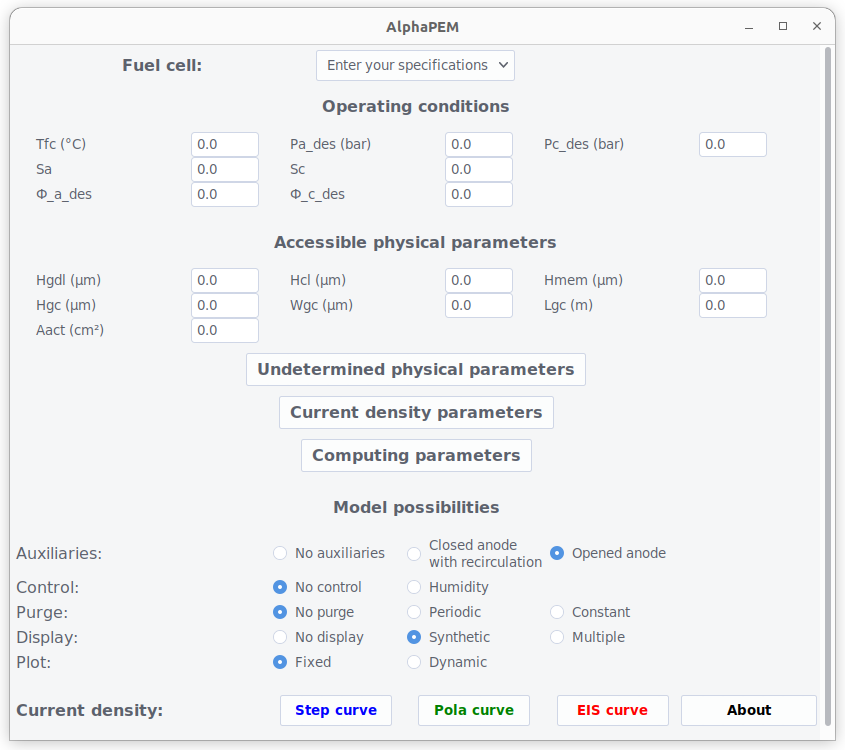
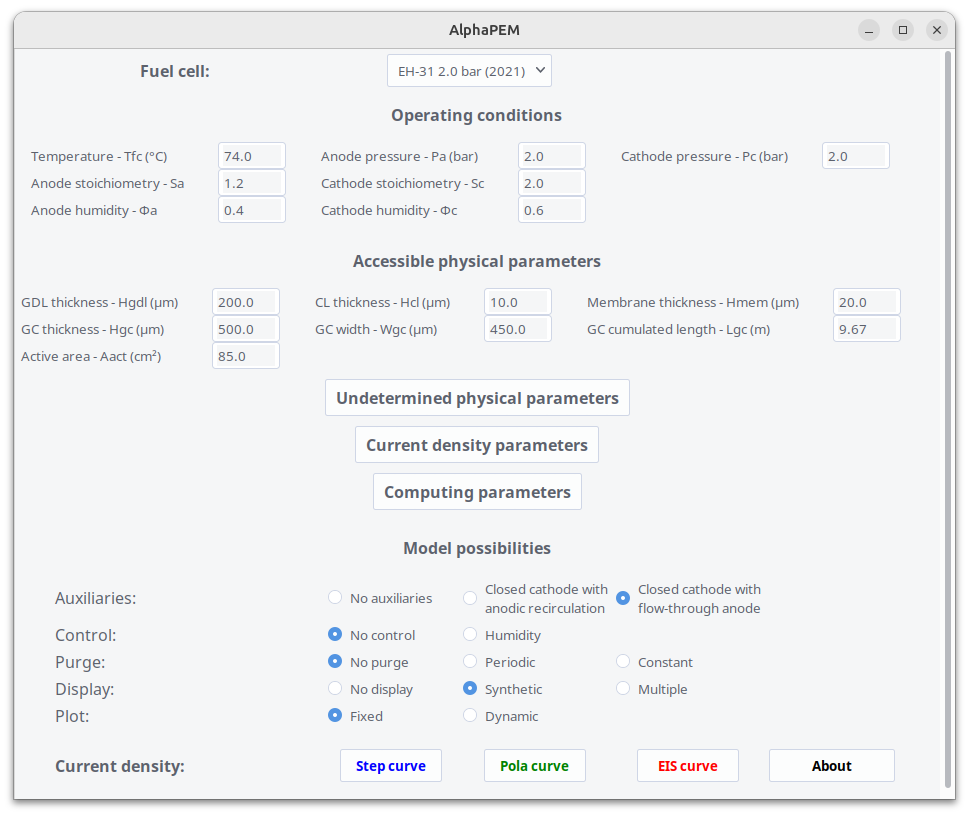
The GUI geometry is now adjusted automatically.

diff --git a/modules/GUI_modules.py b/modules/GUI_modules.py
@@ -353,18 +353,18 @@ def recover_for_display_operating_inputs_and_physical_parameters(choice_operatin
     choice_accessible_parameters['GC cumulated length - Lgc (m)']['value'].set(np.round(Lgc, 2))  # µm
     # undetermined physical parameters recovery
     choice_undetermined_parameters['GDL porosity - ε_gdl']['value'].set(np.round(epsilon_gdl, 3))
-    choice_undetermined_parameters['Ionomer volume fraction - ε_mc']['value'].set(np.round(epsilon_mc, 3))
+    choice_undetermined_parameters['Ionomer volume fraction\n- ε_mc']['value'].set(np.round(epsilon_mc, 3))
     choice_undetermined_parameters['Tortuosity - τ']['value'].set(np.round(tau, 3))
     choice_undetermined_parameters['Compression ratio - ε_c']['value'].set(np.round(epsilon_c, 3))
     choice_undetermined_parameters['Capillary exponent - e']['value'].set(e)
-    choice_undetermined_parameters['Electron resistance - Re (µΩ.m²)']['value'].set(np.round(Re * 1e6, 2))  # µΩ.m²
+    choice_undetermined_parameters['Electron resistance\n- Re (µΩ.m²)']['value'].set(np.round(Re * 1e6, 2))  # µΩ.m²
     choice_undetermined_parameters['Reference exchange current\ndensity - i0_c_ref (A/m²)']['value'].set(np.round(i0_c_ref, 2))  # A.m-2
-    choice_undetermined_parameters['Crossover correction coefficient\n- κ_co (mol/(m.s.Pa))']['value'].set(np.round(kappa_co, 2))  # mol.m-1.s-1.Pa-1
+    choice_undetermined_parameters['Crossover correction\ncoefficient\n- κ_co (mol/(m.s.Pa))']['value'].set(np.round(kappa_co, 2))  # mol.m-1.s-1.Pa-1
     choice_undetermined_parameters['Overpotential correction\nexponent - κ_c']['value'].set(np.round(kappa_c, 2))
     choice_undetermined_parameters['Limit liquid saturation\ncoefficient - a_slim']['value'].set(np.round(a_slim, 7))
     choice_undetermined_parameters['Limit liquid saturation\ncoefficient - b_slim']['value'].set(np.round(b_slim, 7))
     choice_undetermined_parameters['Limit liquid saturation\ncoefficient - a_switch']['value'].set(np.round(a_switch, 7))
-    choice_undetermined_parameters['Volumetric space-charge layer\ncapacitance - C_scl (F/cm³)']['value'].set(np.round(C_scl * 1e-6, 2))  # F.cm-3
+    choice_undetermined_parameters['Volumetric space-charge\nlayer capacitance\n- C_scl (F/cm³)']['value'].set(np.round(C_scl * 1e-6, 2))  # F.cm-3
     # i_max_pola recovery
     choice_current_density_parameters['Maximum current density\n- i_max_pola (A/cm²)']['value'].set(np.round(i_max_pola / 1e4, 2))  # A/cm²
 
@@ -409,34 +409,34 @@ def recover_for_use_operating_inputs_and_physical_parameters(choice_operating_co
     Lgc = choice_accessible_parameters['GC cumulated length - Lgc (m)']['value'].get()  # m
     # undetermined physical parameters
     epsilon_gdl = choice_undetermined_parameters['GDL porosity - ε_gdl']['value'].get()
-    epsilon_mc = choice_undetermined_parameters['Ionomer volume fraction - ε_mc']['value'].get()
+    epsilon_mc = choice_undetermined_parameters['Ionomer volume fraction\n- ε_mc']['value'].get()
     tau = choice_undetermined_parameters['Tortuosity - τ']['value'].get()
     epsilon_c = choice_undetermined_parameters['Compression ratio - ε_c']['value'].get()
     e = choice_undetermined_parameters['Capillary exponent - e']['value'].get()
-    Re = choice_undetermined_parameters['Electron resistance - Re (µΩ.m²)']['value'].get() * 1e-6  # ohm.m²
+    Re = choice_undetermined_parameters['Electron resistance\n- Re (µΩ.m²)']['value'].get() * 1e-6  # ohm.m²
     i0_c_ref = choice_undetermined_parameters['Reference exchange current\ndensity - i0_c_ref (A/m²)']['value'].get()  # A.m-2
-    kappa_co = choice_undetermined_parameters['Crossover correction coefficient\n- κ_co (mol/(m.s.Pa))']['value'].get()  # mol.m-1.s-1.Pa-1
+    kappa_co = choice_undetermined_parameters['Crossover correction\ncoefficient\n- κ_co (mol/(m.s.Pa))']['value'].get()  # mol.m-1.s-1.Pa-1
     kappa_c = choice_undetermined_parameters['Overpotential correction\nexponent - κ_c']['value'].get()
     a_slim = choice_undetermined_parameters['Limit liquid saturation\ncoefficient - a_slim']['value'].get()
     b_slim = choice_undetermined_parameters['Limit liquid saturation\ncoefficient - b_slim']['value'].get()
     a_switch = choice_undetermined_parameters['Limit liquid saturation\ncoefficient - a_switch']['value'].get()
-    C_scl = choice_undetermined_parameters['Volumetric space-charge layer\ncapacitance - C_scl (F/cm³)']['value'].get() * 1e6  # F.m-3
+    C_scl = choice_undetermined_parameters['Volumetric space-charge\nlayer capacitance\n- C_scl (F/cm³)']['value'].get() * 1e6  # F.m-3
     # current density parameters
     t_step = (choice_current_density_parameters['Initial time - t0_step (s)']['value'].get(),
               choice_current_density_parameters['Final time - tf_step (s)']['value'].get(),
-              choice_current_density_parameters['Loading time - Δt_load_step (s)']['value'].get(),
+              choice_current_density_parameters['Loading time\n- Δt_load_step (s)']['value'].get(),
               choice_computing_parameters['Time for dynamic\ndisplay - Δt_dyn_step (s)']['value'].get())  # (s, s, s, s)
     i_step = (choice_current_density_parameters['Initial current density\n- i_ini_step (A/cm²)']['value'].get() * 1e4,
               choice_current_density_parameters['Final current density\n- i_final_step (A/cm²)']['value'].get() * 1e4)  # (A.m-2, A.m-2)
     i_max_pola = choice_current_density_parameters['Maximum current density\n- i_max_pola (A/cm²)']['value'].get() * 1e4  # A.m-2
-    delta_pola = (choice_current_density_parameters['Loading time - Δt_load_pola (s)']['value'].get(),
-                  choice_current_density_parameters['Breaking time - Δt_break_pola (s)']['value'].get(),
+    delta_pola = (choice_current_density_parameters['Loading time\n- Δt_load_pola (s)']['value'].get(),
+                  choice_current_density_parameters['Breaking time\n- Δt_break_pola (s)']['value'].get(),
                   choice_current_density_parameters['Current density step\n- Δi_pola (A/cm²)']['value'].get() * 1e4,
                   choice_current_density_parameters['Initial breaking time\n- Δt_ini_pola (s)']['value'].get())  # (s, s, A.m-2, s)
-    i_EIS = choice_current_density_parameters['Static current - i_EIS (A/cm²)']['value'].get() * 1e4  # (A.m-2)
-    ratio_EIS = choice_current_density_parameters['Current ratio - ratio_EIS (%)']['value'].get() / 100
-    f_EIS = (choice_current_density_parameters['Power of the initial\nfrequency - f_power_min_EIS']['value'].get(),
-             choice_current_density_parameters['Power of the final\nfrequency - f_power_max_EIS']['value'].get(),
+    i_EIS = choice_current_density_parameters['Static current\n- i_EIS (A/cm²)']['value'].get() * 1e4  # (A.m-2)
+    ratio_EIS = choice_current_density_parameters['Current ratio\n- ratio_EIS (%)']['value'].get() / 100
+    f_EIS = (choice_current_density_parameters['Power of the\ninitial frequency\n- f_power_min_EIS']['value'].get(),
+             choice_current_density_parameters['Power of the\nfinal frequency\n- f_power_min_EIS']['value'].get(),
              choice_current_density_parameters['Number of frequencies\ntested - nb_f_EIS']['value'].get(),
              choice_current_density_parameters['Number of points\ncalculated - nb_points_EIS']['value'].get())
     t_EIS = EIS_parameters(f_EIS)  # Time parameters for the EIS_current density function.
@@ -572,8 +572,8 @@ def value_control(choice_operating_conditions, choice_accessible_parameters, cho
         return
     if choice_undetermined_parameters['GDL porosity - ε_gdl']['value'].get() < 0 or \
             choice_undetermined_parameters['GDL porosity - ε_gdl']['value'].get() > 1 or \
-            choice_undetermined_parameters['Ionomer volume fraction - ε_mc']['value'].get() < 0 or \
-            choice_undetermined_parameters['Ionomer volume fraction - ε_mc']['value'].get() > 1:
+            choice_undetermined_parameters['Ionomer volume fraction\n- ε_mc']['value'].get() < 0 or \
+            choice_undetermined_parameters['Ionomer volume fraction\n- ε_mc']['value'].get() > 1:
         messagebox.showerror(title='Porosities', message='All porosities should be between 0 and 1.')
         choices.clear()
         return
@@ -592,8 +592,8 @@ def value_control(choice_operating_conditions, choice_accessible_parameters, cho
                                                                  'being an integer.')
         choices.clear()
         return
-    if choice_undetermined_parameters['Electron resistance - Re (µΩ.m²)']['value'].get() < 0.5 or \
-            choice_undetermined_parameters['Electron resistance - Re (µΩ.m²)']['value'].get() > 5:
+    if choice_undetermined_parameters['Electron resistance\n- Re (µΩ.m²)']['value'].get() < 0.5 or \
+            choice_undetermined_parameters['Electron resistance\n- Re (µΩ.m²)']['value'].get() > 5:
         messagebox.showerror(title='Electron conduction resistance', message='The electron conduction resistance is '
                                                                              'generally between 0.5 and 5 µΩ.m².')
         choices.clear()
@@ -605,8 +605,8 @@ def value_control(choice_operating_conditions, choice_accessible_parameters, cho
                                                                                   'and 500 A.m-2.')
         choices.clear()
         return
-    if choice_undetermined_parameters['Crossover correction coefficient\n- κ_co (mol/(m.s.Pa))']['value'].get() < 0.01 or \
-            choice_undetermined_parameters['Crossover correction coefficient\n- κ_co (mol/(m.s.Pa))']['value'].get() > 100:
+    if choice_undetermined_parameters['Crossover correction\ncoefficient\n- κ_co (mol/(m.s.Pa))']['value'].get() < 0.01 or \
+            choice_undetermined_parameters['Crossover correction\ncoefficient\n- κ_co (mol/(m.s.Pa))']['value'].get() > 100:
         messagebox.showerror(title='Crossover correction coefficient', message='The crossover correction coefficient is'
                                                                                ' generally between 0.01 and 100 '
                                                                                'mol.m-1.s-1.Pa-1.')
@@ -636,21 +636,21 @@ def value_control(choice_operating_conditions, choice_accessible_parameters, cho
                                                                       ' 0 and 1.')
         choices.clear()
         return
-    if choice_undetermined_parameters['Volumetric space-charge layer\ncapacitance - C_scl (F/cm³)']['value'].get() < 5 or \
-            choice_undetermined_parameters['Volumetric space-charge layer\ncapacitance - C_scl (F/cm³)']['value'].get() > 100:
+    if choice_undetermined_parameters['Volumetric space-charge\nlayer capacitance\n- C_scl (F/cm³)']['value'].get() < 5 or \
+            choice_undetermined_parameters['Volumetric space-charge\nlayer capacitance\n- C_scl (F/cm³)']['value'].get() > 100:
         messagebox.showerror(title='Double layer capacitance', message='I have not settled yet a range for C_scl.')
         choices.clear()
         return
     if choice_current_density_parameters['Initial time - t0_step (s)']['value'].get() < 0 or \
             choice_current_density_parameters['Final time - tf_step (s)']['value'].get() < 0 or \
-            choice_current_density_parameters['Loading time - Δt_load_step (s)']['value'].get() < 0 or \
+            choice_current_density_parameters['Loading time\n- Δt_load_step (s)']['value'].get() < 0 or \
             choice_computing_parameters['Time for dynamic\ndisplay - Δt_dyn_step (s)']['value'].get() < 0 or \
-            choice_current_density_parameters['Loading time - Δt_load_pola (s)']['value'].get() < 0 or \
-            choice_current_density_parameters['Breaking time - Δt_break_pola (s)']['value'].get() < 0 or \
+            choice_current_density_parameters['Loading time\n- Δt_load_pola (s)']['value'].get() < 0 or \
+            choice_current_density_parameters['Breaking time\n- Δt_break_pola (s)']['value'].get() < 0 or \
             choice_current_density_parameters['Initial breaking time\n- Δt_ini_pola (s)']['value'].get() < 0 or \
             choice_current_density_parameters['Initial time - t0_step (s)']['value'].get() > \
             choice_current_density_parameters['Final time - tf_step (s)']['value'].get() or \
-            choice_current_density_parameters['Loading time - Δt_load_step (s)']['value'].get() > \
+            choice_current_density_parameters['Loading time\n- Δt_load_step (s)']['value'].get() > \
             (choice_current_density_parameters['Final time - tf_step (s)']['value'].get() -
              choice_current_density_parameters['Initial time - t0_step (s)']['value'].get()):
         messagebox.showerror(title='Times', message='The times should be positive, t0_step < tf_step and '
@@ -661,7 +661,7 @@ def value_control(choice_operating_conditions, choice_accessible_parameters, cho
             choice_current_density_parameters['Final current density\n- i_final_step (A/cm²)']['value'].get() < 0 or \
             choice_current_density_parameters['Maximum current density\n- i_max_pola (A/cm²)']['value'].get() < 0 or \
             choice_current_density_parameters['Current density step\n- Δi_pola (A/cm²)']['value'].get() < 0 or \
-            choice_current_density_parameters['Static current - i_EIS (A/cm²)']['value'].get() < 0 or \
+            choice_current_density_parameters['Static current\n- i_EIS (A/cm²)']['value'].get() < 0 or \
             choice_current_density_parameters['Current density step\n- Δi_pola (A/cm²)']['value'].get() > \
             choice_current_density_parameters['Maximum current density\n- i_max_pola (A/cm²)']['value'].get() or \
             choice_current_density_parameters['Initial current density\n- i_ini_step (A/cm²)']['value'].get() > \
@@ -671,8 +671,8 @@ def value_control(choice_operating_conditions, choice_accessible_parameters, cho
                                                                 'i_ini_step < i_final_step.')
         choices.clear()
         return
-    if choice_current_density_parameters['Current ratio - ratio_EIS (%)']['value'].get() < 0 or \
-            choice_current_density_parameters['Current ratio - ratio_EIS (%)']['value'].get() > 20:
+    if choice_current_density_parameters['Current ratio\n- ratio_EIS (%)']['value'].get() < 0 or \
+            choice_current_density_parameters['Current ratio\n- ratio_EIS (%)']['value'].get() > 20:
         messagebox.showerror(title='Ratio EIS', message='Ratio EIS is a percentage of i_EIS and should be between 0 '
                                                         'and 20 for plotting correct EIS.')
         choices.clear()
@@ -680,8 +680,8 @@ def value_control(choice_operating_conditions, choice_accessible_parameters, cho
 
     if choice_current_density_parameters['Number of frequencies\ntested - nb_f_EIS']['value'].get() < 0 or \
             choice_current_density_parameters['Number of points\ncalculated - nb_points_EIS']['value'].get() < 0 or \
-            type(choice_current_density_parameters['Power of the initial\nfrequency - f_power_min_EIS']['value'].get()) != int or \
-            type(choice_current_density_parameters['Power of the final\nfrequency - f_power_max_EIS']['value'].get()) != int or \
+            type(choice_current_density_parameters['Power of the\ninitial frequency\n- f_power_min_EIS']['value'].get()) != int or \
+            type(choice_current_density_parameters['Power of the\nfinal frequency\n- f_power_min_EIS']['value'].get()) != int or \
             type(choice_current_density_parameters['Number of frequencies\ntested - nb_f_EIS']['value'].get()) != int or \
             type(choice_current_density_parameters['Number of points\ncalculated - nb_points_EIS']['value'].get()) != int:
         messagebox.showerror(title='f EIS', message='f_EIS parameters should be integer and number of points should '

diff --git a/GUI.py b/GUI.py
@@ -32,7 +32,6 @@ def create_application():
     root = ThemedTk(theme="arc")
     root.configure(background='#f5f6f7')
     root.title("AlphaPEM")
-    root.geometry("770x750") # Set default size of the window
 
     # Create a canvas and add a scrollbar to it
     canvas = tk.Canvas(root)
@@ -44,8 +43,9 @@ def create_application():
     main_frame(frame, canvas)
     canvas.create_window((0,0), window=frame, anchor='nw') # Add the frame to the canvas
 
-    # Adjust the scrollable region to the size of the canvas content
+    # Adjust the main window and canvas size
     frame.update_idletasks()
+    root.geometry(f"{frame.winfo_width()}x{frame.winfo_height()}")
     canvas.configure(scrollregion=canvas.bbox('all'))
     canvas.pack(fill='both', expand=True, side='left') # Organize the widgets
     scrollbar.pack(fill='y', side='right')
@@ -123,15 +123,15 @@ def main_frame(root, canvas):
 
     choice_undetermined_parameters = \
         {'GDL porosity - ε_gdl': {'value': tk.DoubleVar(undetermined_parameters_frame, 0.6), 'label_row': 0, 'label_column': 1},
-         'Ionomer volume fraction - ε_mc': {'value': tk.DoubleVar(undetermined_parameters_frame, 0.25), 'label_row': 0, 'label_column': 3},
+         'Ionomer volume fraction\n- ε_mc': {'value': tk.DoubleVar(undetermined_parameters_frame, 0.25), 'label_row': 0, 'label_column': 3},
          'Tortuosity - τ': {'value': tk.DoubleVar(undetermined_parameters_frame, 1.5), 'label_row': 0, 'label_column': 5},
          'Compression ratio - ε_c': {'value': tk.DoubleVar(undetermined_parameters_frame, 0.2), 'label_row': 1, 'label_column': 1},
          'Capillary exponent - e': {'value': tk.IntVar(undetermined_parameters_frame, 4), 'label_row': 1, 'label_column': 3},
-         'Electron resistance - Re (µΩ.m²)': {'value': tk.DoubleVar(undetermined_parameters_frame, 1.0), 'label_row': 1,
+         'Electron resistance\n- Re (µΩ.m²)': {'value': tk.DoubleVar(undetermined_parameters_frame, 1.0), 'label_row': 1,
                         'label_column': 5},
-         'Reference exchange current\ndensity - i0_c_ref (A/m²)': {'value': tk.DoubleVar(undetermined_parameters_frame, 3.0), 'label_row': 2,
+         'Reference exchange\ncurrent density\n- i0_c_ref (A/m²)': {'value': tk.DoubleVar(undetermined_parameters_frame, 3.0), 'label_row': 2,
                              'label_column': 1},
-         'Crossover correction coefficient\n- κ_co (mol/(m.s.Pa))': {'value': tk.DoubleVar(undetermined_parameters_frame, 1.0), 'label_row': 2,
+         'Crossover correction\ncoefficient\n- κ_co (mol/(m.s.Pa))': {'value': tk.DoubleVar(undetermined_parameters_frame, 1.0), 'label_row': 2,
                                  'label_column': 3},
          'Overpotential correction\nexponent - κ_c': {'value': tk.DoubleVar(undetermined_parameters_frame, 2.0), 'label_row': 2, 'label_column': 5},
          'Limit liquid saturation\ncoefficient - a_slim': {'value': tk.DoubleVar(undetermined_parameters_frame, 0.05), 'label_row': 3,
@@ -140,7 +140,7 @@ def main_frame(root, canvas):
                     'label_column': 3},
          'Limit liquid saturation\ncoefficient - a_switch': {'value': tk.DoubleVar(undetermined_parameters_frame, 0.7), 'label_row': 3,
                       'label_column': 5},
-         'Volumetric space-charge layer\ncapacitance - C_scl (F/cm³)': {'value': tk.DoubleVar(undetermined_parameters_frame, 20), 'label_row': 4,
+         'Volumetric space-charge\nlayer capacitance\n- C_scl (F/cm³)': {'value': tk.DoubleVar(undetermined_parameters_frame, 20), 'label_row': 4,
                           'label_column': 1}}
 
     choice_current_density_parameters = \
@@ -148,15 +148,15 @@ def main_frame(root, canvas):
                          'label_column': 1},
          'Final time - tf_step (s)': {'value': tk.DoubleVar(current_density_parameters_frame, 1000), 'label_row': 0,
                          'label_column': 3},
-         'Loading time - Δt_load_step (s)': {'value': tk.DoubleVar(current_density_parameters_frame, 50), 'label_row': 0,
+         'Loading time\n- Δt_load_step (s)': {'value': tk.DoubleVar(current_density_parameters_frame, 50), 'label_row': 0,
                               'label_column': 5},
          'Initial current density\n- i_ini_step (A/cm²)': {'value': tk.DoubleVar(current_density_parameters_frame, 0.5), 'label_row': 1,
                                 'label_column': 1},
          'Final current density\n- i_final_step (A/cm²)': {'value': tk.DoubleVar(current_density_parameters_frame, 1.5), 'label_row': 1,
                                   'label_column': 3},
-         'Loading time - Δt_load_pola (s)': {'value': tk.DoubleVar(current_density_parameters_frame, 30), 'label_row': 2,
+         'Loading time\n- Δt_load_pola (s)': {'value': tk.DoubleVar(current_density_parameters_frame, 30), 'label_row': 2,
                               'label_column': 1},
-         'Breaking time - Δt_break_pola (s)': {'value': tk.DoubleVar(current_density_parameters_frame, 30), 'label_row': 2,
+         'Breaking time\n- Δt_break_pola (s)': {'value': tk.DoubleVar(current_density_parameters_frame, 30), 'label_row': 2,
                                'label_column': 3},
          'Initial breaking time\n- Δt_ini_pola (s)': {'value': tk.DoubleVar(current_density_parameters_frame, 60), 'label_row': 2,
                              'label_column': 5},
@@ -164,15 +164,15 @@ def main_frame(root, canvas):
                                 'label_column': 1},
          'Current density step\n- Δi_pola (A/cm²)': {'value': tk.DoubleVar(current_density_parameters_frame, 0.1), 'label_row': 3,
                              'label_column': 3},
-         'Static current - i_EIS (A/cm²)': {'value': tk.DoubleVar(current_density_parameters_frame, 0.5), 'label_row': 4,
+         'Static current\n- i_EIS (A/cm²)': {'value': tk.DoubleVar(current_density_parameters_frame, 0.5), 'label_row': 4,
                            'label_column': 1},
-         'Current ratio - ratio_EIS (%)': {'value': tk.DoubleVar(current_density_parameters_frame, 5), 'label_row': 4,
+         'Current ratio\n- ratio_EIS (%)': {'value': tk.DoubleVar(current_density_parameters_frame, 5), 'label_row': 4,
                            'label_column': 3},
          'Number of points\ncalculated - nb_points_EIS': {'value': tk.IntVar(current_density_parameters_frame, 50), 'label_row': 4,
                            'label_column': 5},
-         'Power of the initial\nfrequency - f_power_min_EIS': {'value': tk.IntVar(current_density_parameters_frame, -3), 'label_row': 5,
+         'Power of the\ninitial frequency\n- f_power_min_EIS': {'value': tk.IntVar(current_density_parameters_frame, -3), 'label_row': 5,
                              'label_column': 1},
-         'Power of the final\nfrequency - f_power_max_EIS': {'value': tk.IntVar(current_density_parameters_frame, 5), 'label_row': 5,
+         'Power of the\nfinal frequency\n- f_power_max_EIS': {'value': tk.IntVar(current_density_parameters_frame, 5), 'label_row': 5,
                              'label_column': 3},
          'Number of frequencies\ntested - nb_f_EIS': {'value': tk.IntVar(current_density_parameters_frame, 60), 'label_row': 5,
                       'label_column': 5}}
